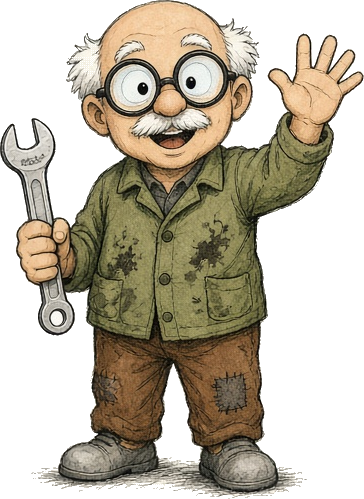
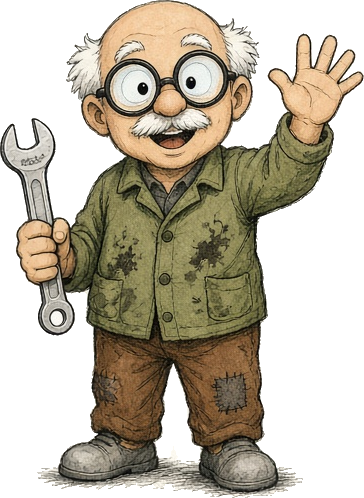
Klapperkiste: Opa, weiße Lücke zwischen Arm und Kopf entfernt
Claude-Session: https://claude.ai/code/session_01WRaeiUW1SS7Jnky8dn2gGr

diff --git a/klapperkiste/CHARAKTERE.md b/klapperkiste/CHARAKTERE.md
@@ -147,6 +147,8 @@ Background illustration for a game dialogue scene, seen at eye level from the gr
   schließt das Werkzeug inzwischen immer von selbst.
 - **Kapitänin Kiel:** `python klapperkiste/tools/charakter.py assets/charaktere/roh/kiel.jpg kiel --loch nachdenken:0.768,0.486`
   (Lücke zwischen Arm in der Hüfte und Körper).
+- **Opa Bolzen:** `python klapperkiste/tools/charakter.py assets/charaktere/roh/opa.jpg opa --loch nachdenken:0.80,0.27`
+  (Lücke zwischen erhobenem Arm und Kopf).
 - **Hüttenwirt Frieder:** `python klapperkiste/tools/charakter.py assets/charaktere/roh/frieder.jpg frieder --loch nachdenken:0.25,0.259`
   (Lücke zwischen Arm und Kopf).
 - Immer automatisch: kleine Löcher in der Figur werden geschlossen, kleine
